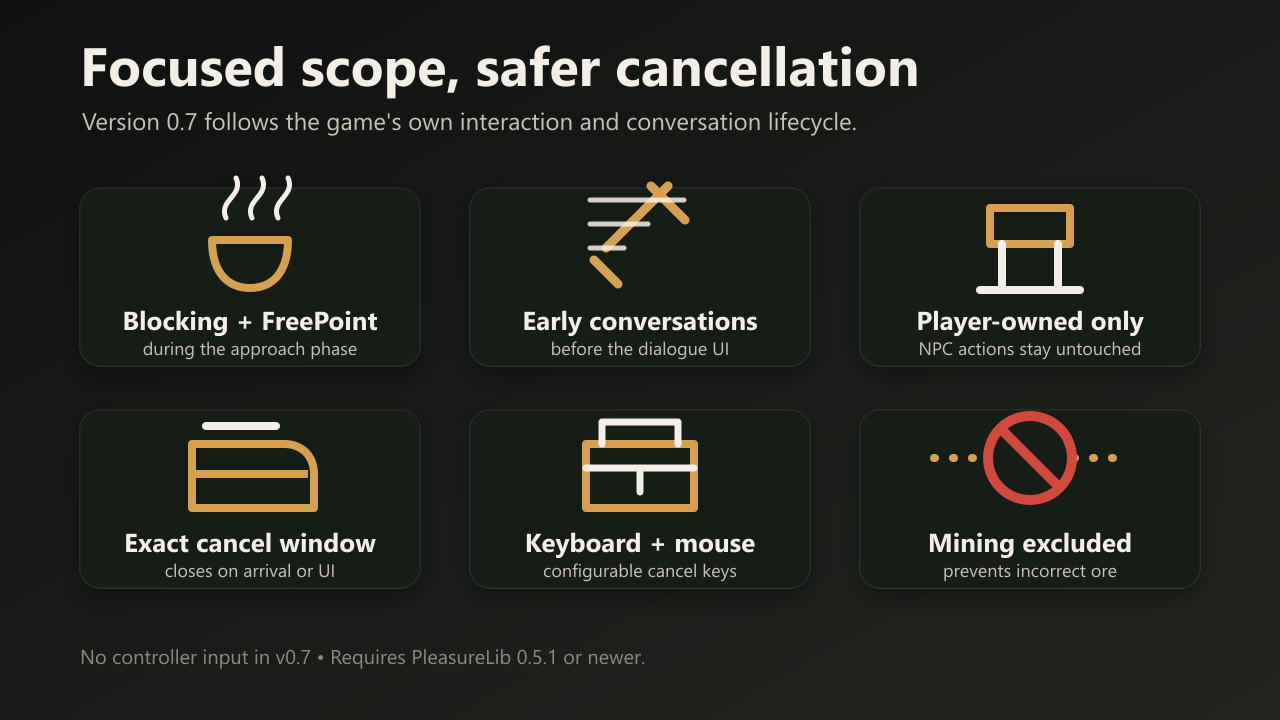
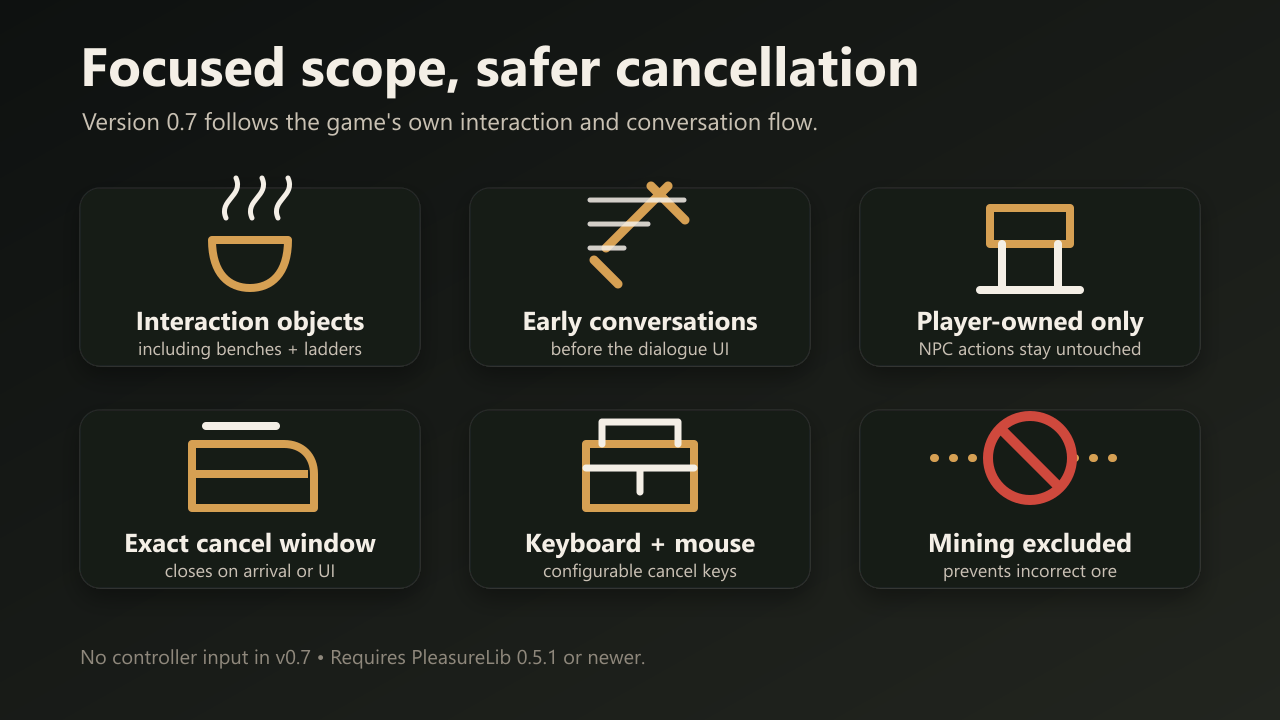
Simplify user-facing interaction wording

Changed region(s): [[0.0938, 0.4278, 0.3125, 0.5194], [0.5938, 0.1528, 0.6875, 0.1833]]

diff --git a/README.md b/README.md
@@ -10,14 +10,13 @@ Press `F`, `R`, `ESC`, right mouse button, or one of the movement keys `A`, `W`,
 
 ## Features
 
-- Cancels the player's active blocking interaction before the hero reaches the
-  target.
+- Cancels an accidental interaction before the hero reaches the target.
 - Cancels a player-initiated conversation before its UI opens.
-- Uses the game's exact blocking-interaction and FreePoint approach lifecycles
-  instead of scanning the AbilitySystem, locomotion state, or global objects.
-- Supports the FreePoint approach used by benches and ladders.
+- Works with regular interaction objects as well as benches and ladders.
+- Uses the game's own approach and arrival events for a focused, lightweight
+  runtime.
 - Supports configurable keyboard and mouse cancel keys.
-- Excludes mining because cancelling that ability can incorrectly award ore.
+- Excludes mining because cancelling it early can incorrectly award ore.
 - Clears tracked state across interaction completion and map changes.
 - Uses single-use tracked state to avoid repeated calls on stale game objects.
 - Quiet by default, with optional debug logging for troubleshooting.
@@ -88,43 +87,36 @@ CancelKeys=F,R,ESCAPE,A,W,S,D,RIGHT_MOUSE_BUTTON
 - `CancelKeys` is a comma-separated list of UE4SS keyboard and mouse key names.
 - Use `RIGHT_MOUSE_BUTTON` for right mouse click.
 - Unknown key names are skipped and reported in the UE4SS log.
-- `Debug=true` enables additional lifecycle and ownership diagnostics.
+- `Debug=true` enables additional interaction diagnostics.
 
 Controller buttons are not accepted by this configuration.
 
 ## How The Cancel Window Works
 
-For blocking interactions, the mod tracks the player's
-`GameplayAbilityBlockingInteraction` when its move-to phase starts. Pressing a
-configured key cancels that ability on the game thread. The window closes when
-the matching move-to phase ends, so the mod no longer intervenes after the hero
-has arrived and the object's normal animation or UI has begun.
+For most objects, the mod remembers the interaction while the hero is walking
+toward its target. Benches and ladders use a different internal approach in the
+game, so the mod handles their approach separately as well.
 
-Benches and ladders use a separate
-`AbilityTask_MoveIntoPositionForInteraction` owned by
-`GameplayAbilityInteractFreePoint`. The mod tracks that exact player-owned task
-and ends the FreePoint ability with `OnRequestEndQuick`. Successful alignment
-or the animation handoff closes the window immediately. A short edge handles
-the case where a directional key cancels the approach task before UE4SS
-delivers the matching `A`, `W`, `S`, or `D` key bind.
+In both cases, pressing a configured key ends the accidental action before the
+object animation begins. Successful arrival closes the cancel window
+immediately, leaving normal bench, ladder, object, and menu controls untouched.
+A short input edge handles either ordering of a WASD press and the game's
+arrival event.
 
-For conversations, the mod tracks a `ConversationGroup` only when its initiator
-belongs to the player. The group can be ended during the approach. Once the
-conversation UI appears, normal game conversation controls take over.
+Player-started conversations can also be ended during the approach. Once the
+conversation UI appears, normal conversation controls take over.
 
-Mining is intentionally excluded from the ability cancel path. This avoids a
-known side effect where cancelling mining can grant ore incorrectly.
+Mining is intentionally excluded. Ending it through this path can incorrectly
+grant ore.
 
 ## Updating From 0.6.x
 
-Version 0.7.0 replaces the previous movement-task, AbilitySystem, locomotion,
-discovery, and EnhancedInput implementation with the smaller
-blocking-interaction lifecycle.
+Version 0.7.0 replaces the previous broad movement and input implementation
+with a smaller event-based runtime.
 
-Version 0.7.2 adds the missing narrow FreePoint lifecycle used by benches and
-ladders, so WASD can also cancel while the hero approaches them. It keeps
-PleasureLib and does not restore AbilitySystem scans, locomotion mutation, or
-generic task cancellation.
+Version 0.7.2 adds the separate approach flow used by benches and ladders, so
+WASD can also cancel while the hero approaches them. It keeps PleasureLib and
+the focused event-based design.
 
 When updating:
 

diff --git a/NEXUSMODS.md b/NEXUSMODS.md
@@ -35,14 +35,13 @@ Press `F`, `R`, `ESC`, right mouse button, or one of the movement keys `A`, `W`,
 
 ## Features
 
-- Cancels the player's active blocking interaction before the hero reaches the
-  target
+- Cancels an accidental interaction before the hero reaches the target
 - Cancels a player-initiated conversation before its UI opens
-- Uses the game's exact blocking-interaction and FreePoint approach lifecycles
-  instead of scanning the AbilitySystem, locomotion state, or global objects
-- Supports the FreePoint approach used by benches and ladders
+- Works with regular interaction objects as well as benches and ladders
+- Uses the game's own approach and arrival events for a focused, lightweight
+  runtime
 - Supports configurable keyboard and mouse cancel keys
-- Excludes mining because cancelling that ability can incorrectly award ore
+- Excludes mining because cancelling it early can incorrectly award ore
 - Clears tracked state across interaction completion and map changes
 - Uses single-use tracked state to avoid repeated calls on stale game objects
 - Quiet by default, with optional debug logging
@@ -92,39 +91,34 @@ CancelKeys=F,R,ESCAPE,A,W,S,D,RIGHT_MOUSE_BUTTON
 
 `CancelKeys` accepts comma-separated UE4SS keyboard and mouse key names. Use
 `RIGHT_MOUSE_BUTTON` for right mouse click. Set `Debug=true` only when you need
-additional lifecycle diagnostics.
+additional interaction diagnostics.
 
 Controller buttons are not supported by this version.
 
 ## How It Works
 
-For blocking interactions, the mod tracks the player's blocking-interaction
-ability while its move-to phase is active. A configured key cancels that
-ability on the game thread. The cancel window closes when the move-to phase
-ends, leaving the normal object animation or UI alone after the hero arrives.
+For most objects, the mod remembers the interaction while the hero is walking
+toward its target. Benches and ladders behave differently internally, so their
+approach is handled separately too.
 
-Benches and ladders use a separate player-owned FreePoint approach task. The
-mod tracks that exact task and calls `OnRequestEndQuick` before its animation
-handoff. Successful alignment closes the window immediately, so normal bench
-and ladder controls take over after arrival. A short edge covers either
-ordering of the WASD input and the task-end event.
+In both cases, a configured key ends the accidental action before the object
+animation begins. Successful arrival closes the cancel window immediately,
+leaving normal bench, ladder, object, and menu controls untouched. A short
+input edge covers either ordering of a WASD press and the game's arrival event.
 
-For conversations, the mod tracks only a group initiated by the player. It can
-be ended during the approach, but the mod stops intervening as soon as the
-conversation UI appears.
+Player-started conversations can also be ended during the approach. Once the
+conversation UI appears, normal conversation controls take over.
 
-Mining is intentionally excluded. Cancelling the mining ability through this
-path can incorrectly grant ore.
+Mining is intentionally excluded because ending it through this path can
+incorrectly grant ore.
 
 ## Updating From 0.6.x
 
-Version 0.7.0 replaces the previous movement-task, AbilitySystem, locomotion,
-discovery, and EnhancedInput implementation with the smaller
-blocking-interaction lifecycle.
+Version 0.7.0 replaces the previous broad movement and input implementation
+with a smaller event-based runtime.
 
-Version 0.7.2 adds the missing narrow FreePoint lifecycle used by benches and
-ladders, so WASD can also cancel while the hero approaches them. It does this
-without restoring AbilitySystem scans or locomotion mutation.
+Version 0.7.2 adds the separate approach flow used by benches and ladders, so
+WASD can also cancel while the hero approaches them.
 
 Replace `Scripts/main.lua`, `Scripts/cancel_core.lua`, and
 `Scripts/pleasure_lib_loader.lua`. Delete the obsolete installed files